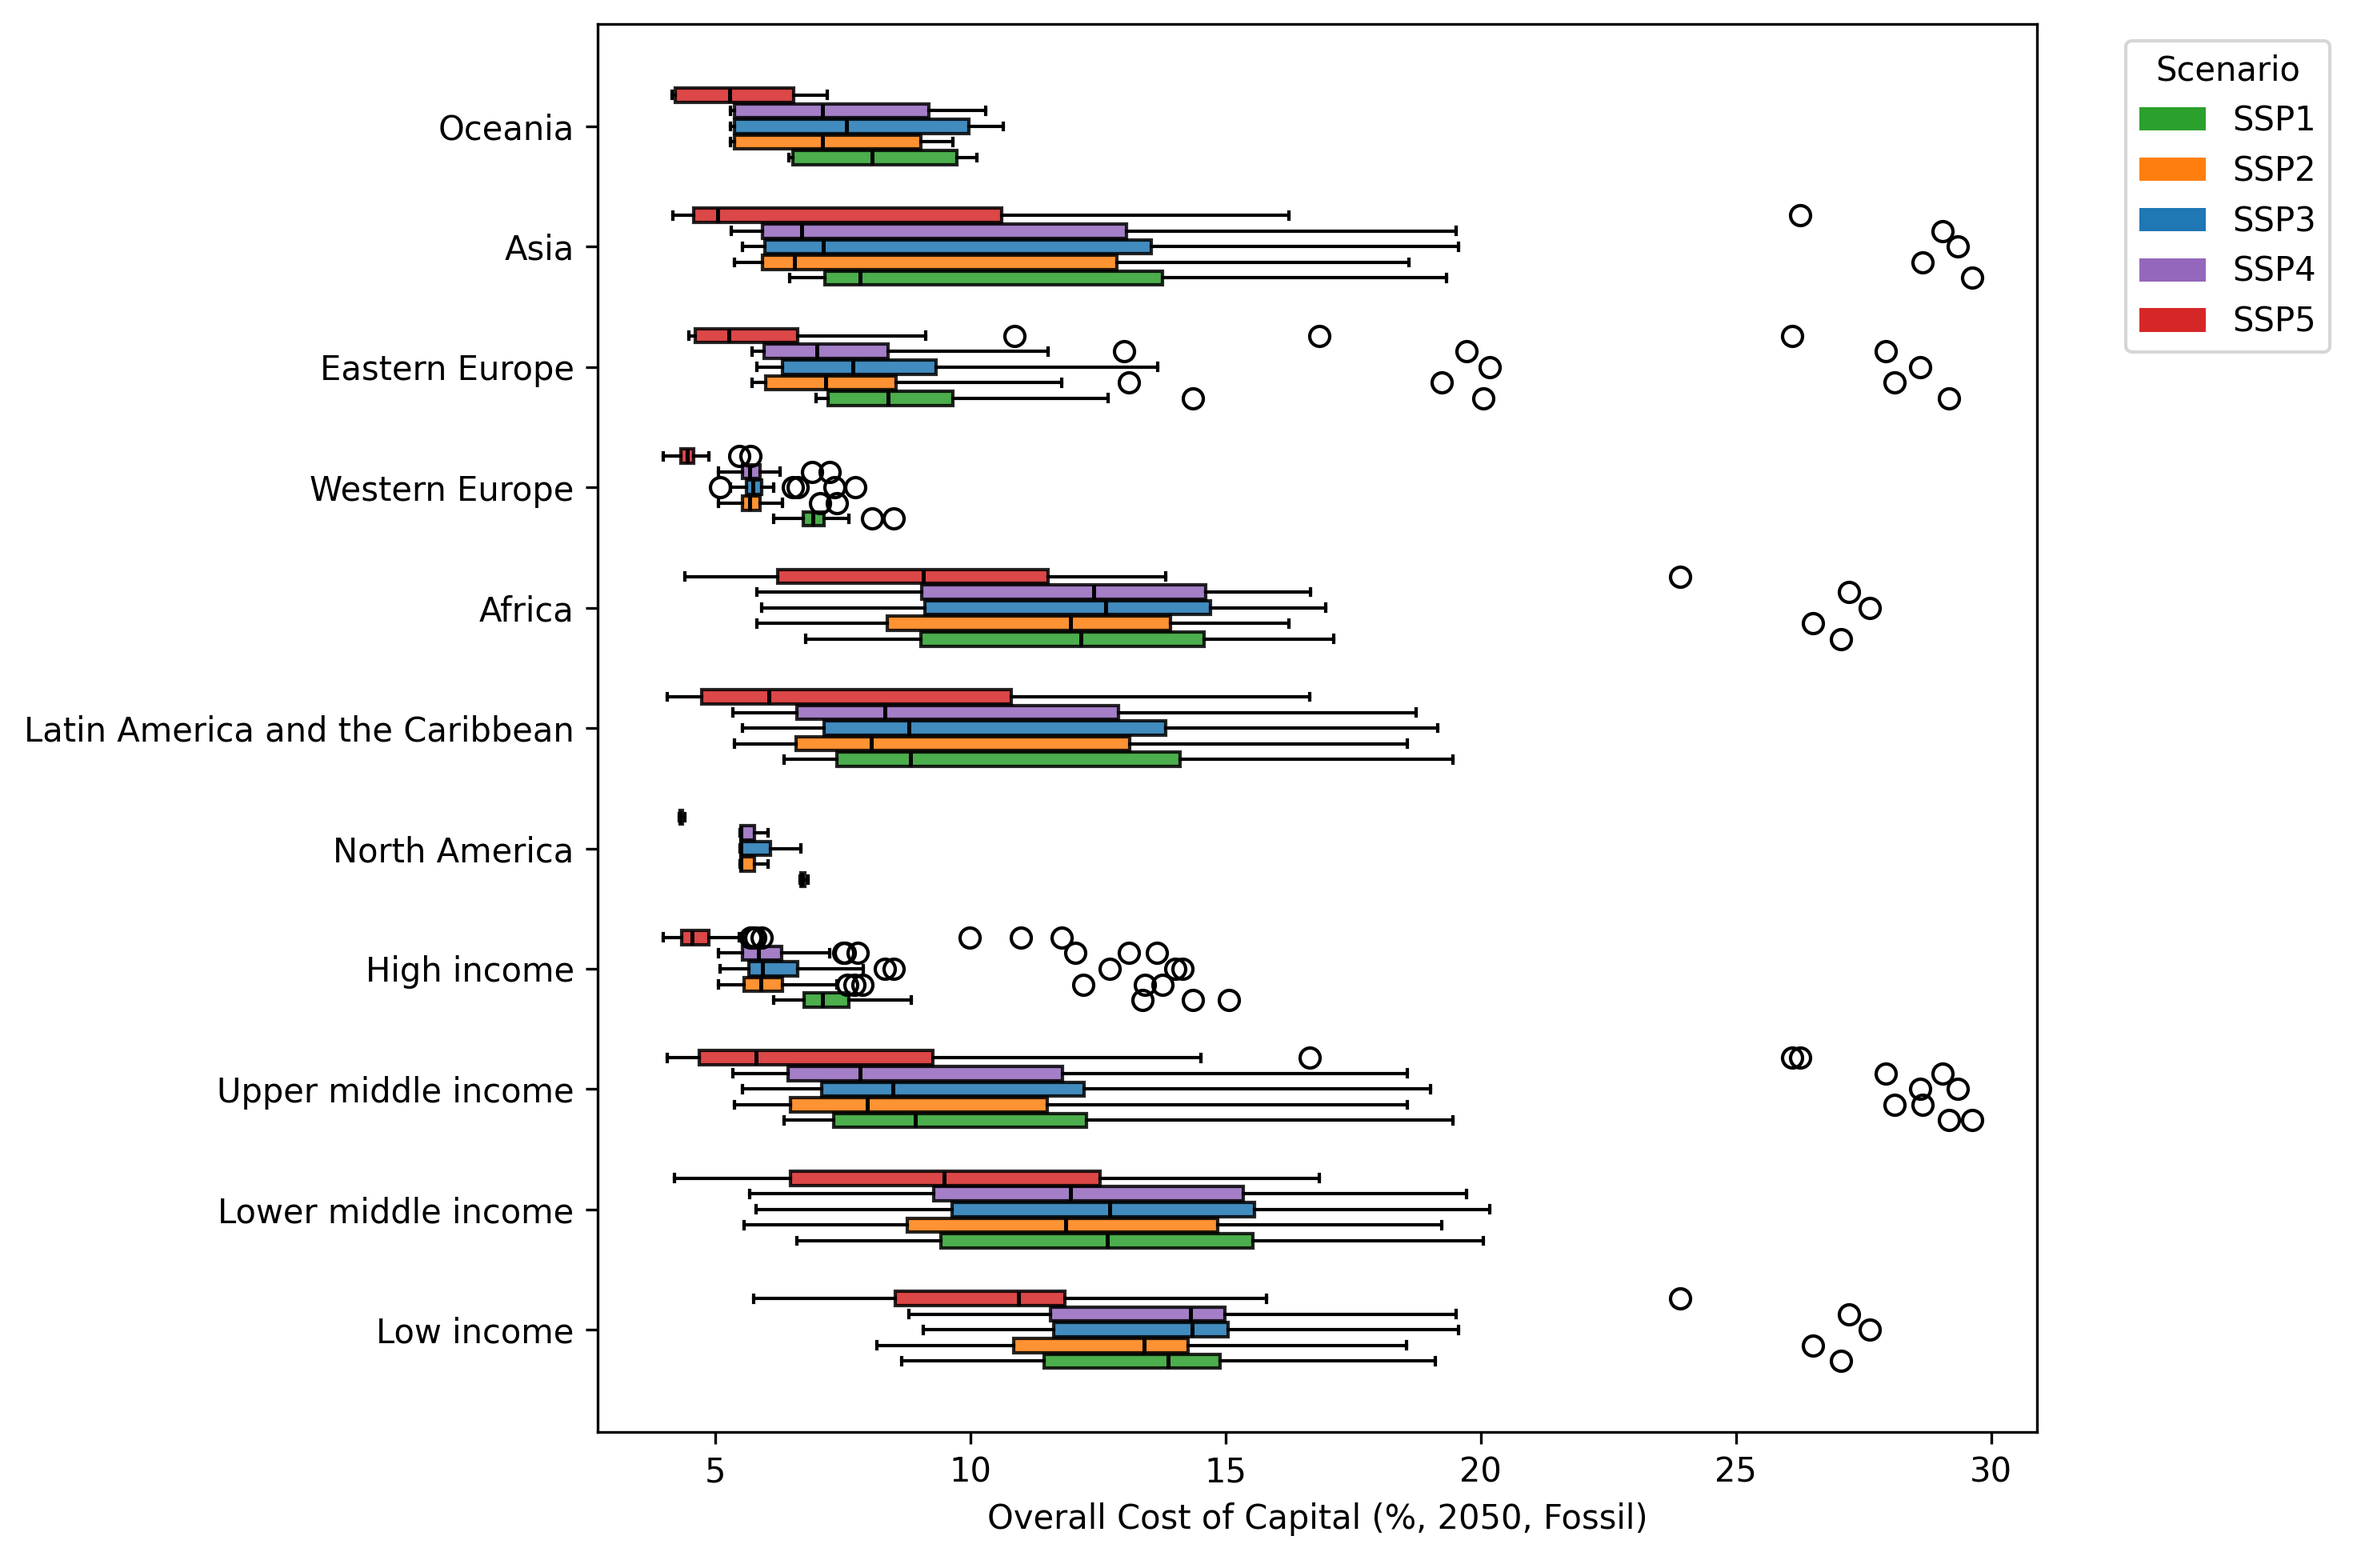
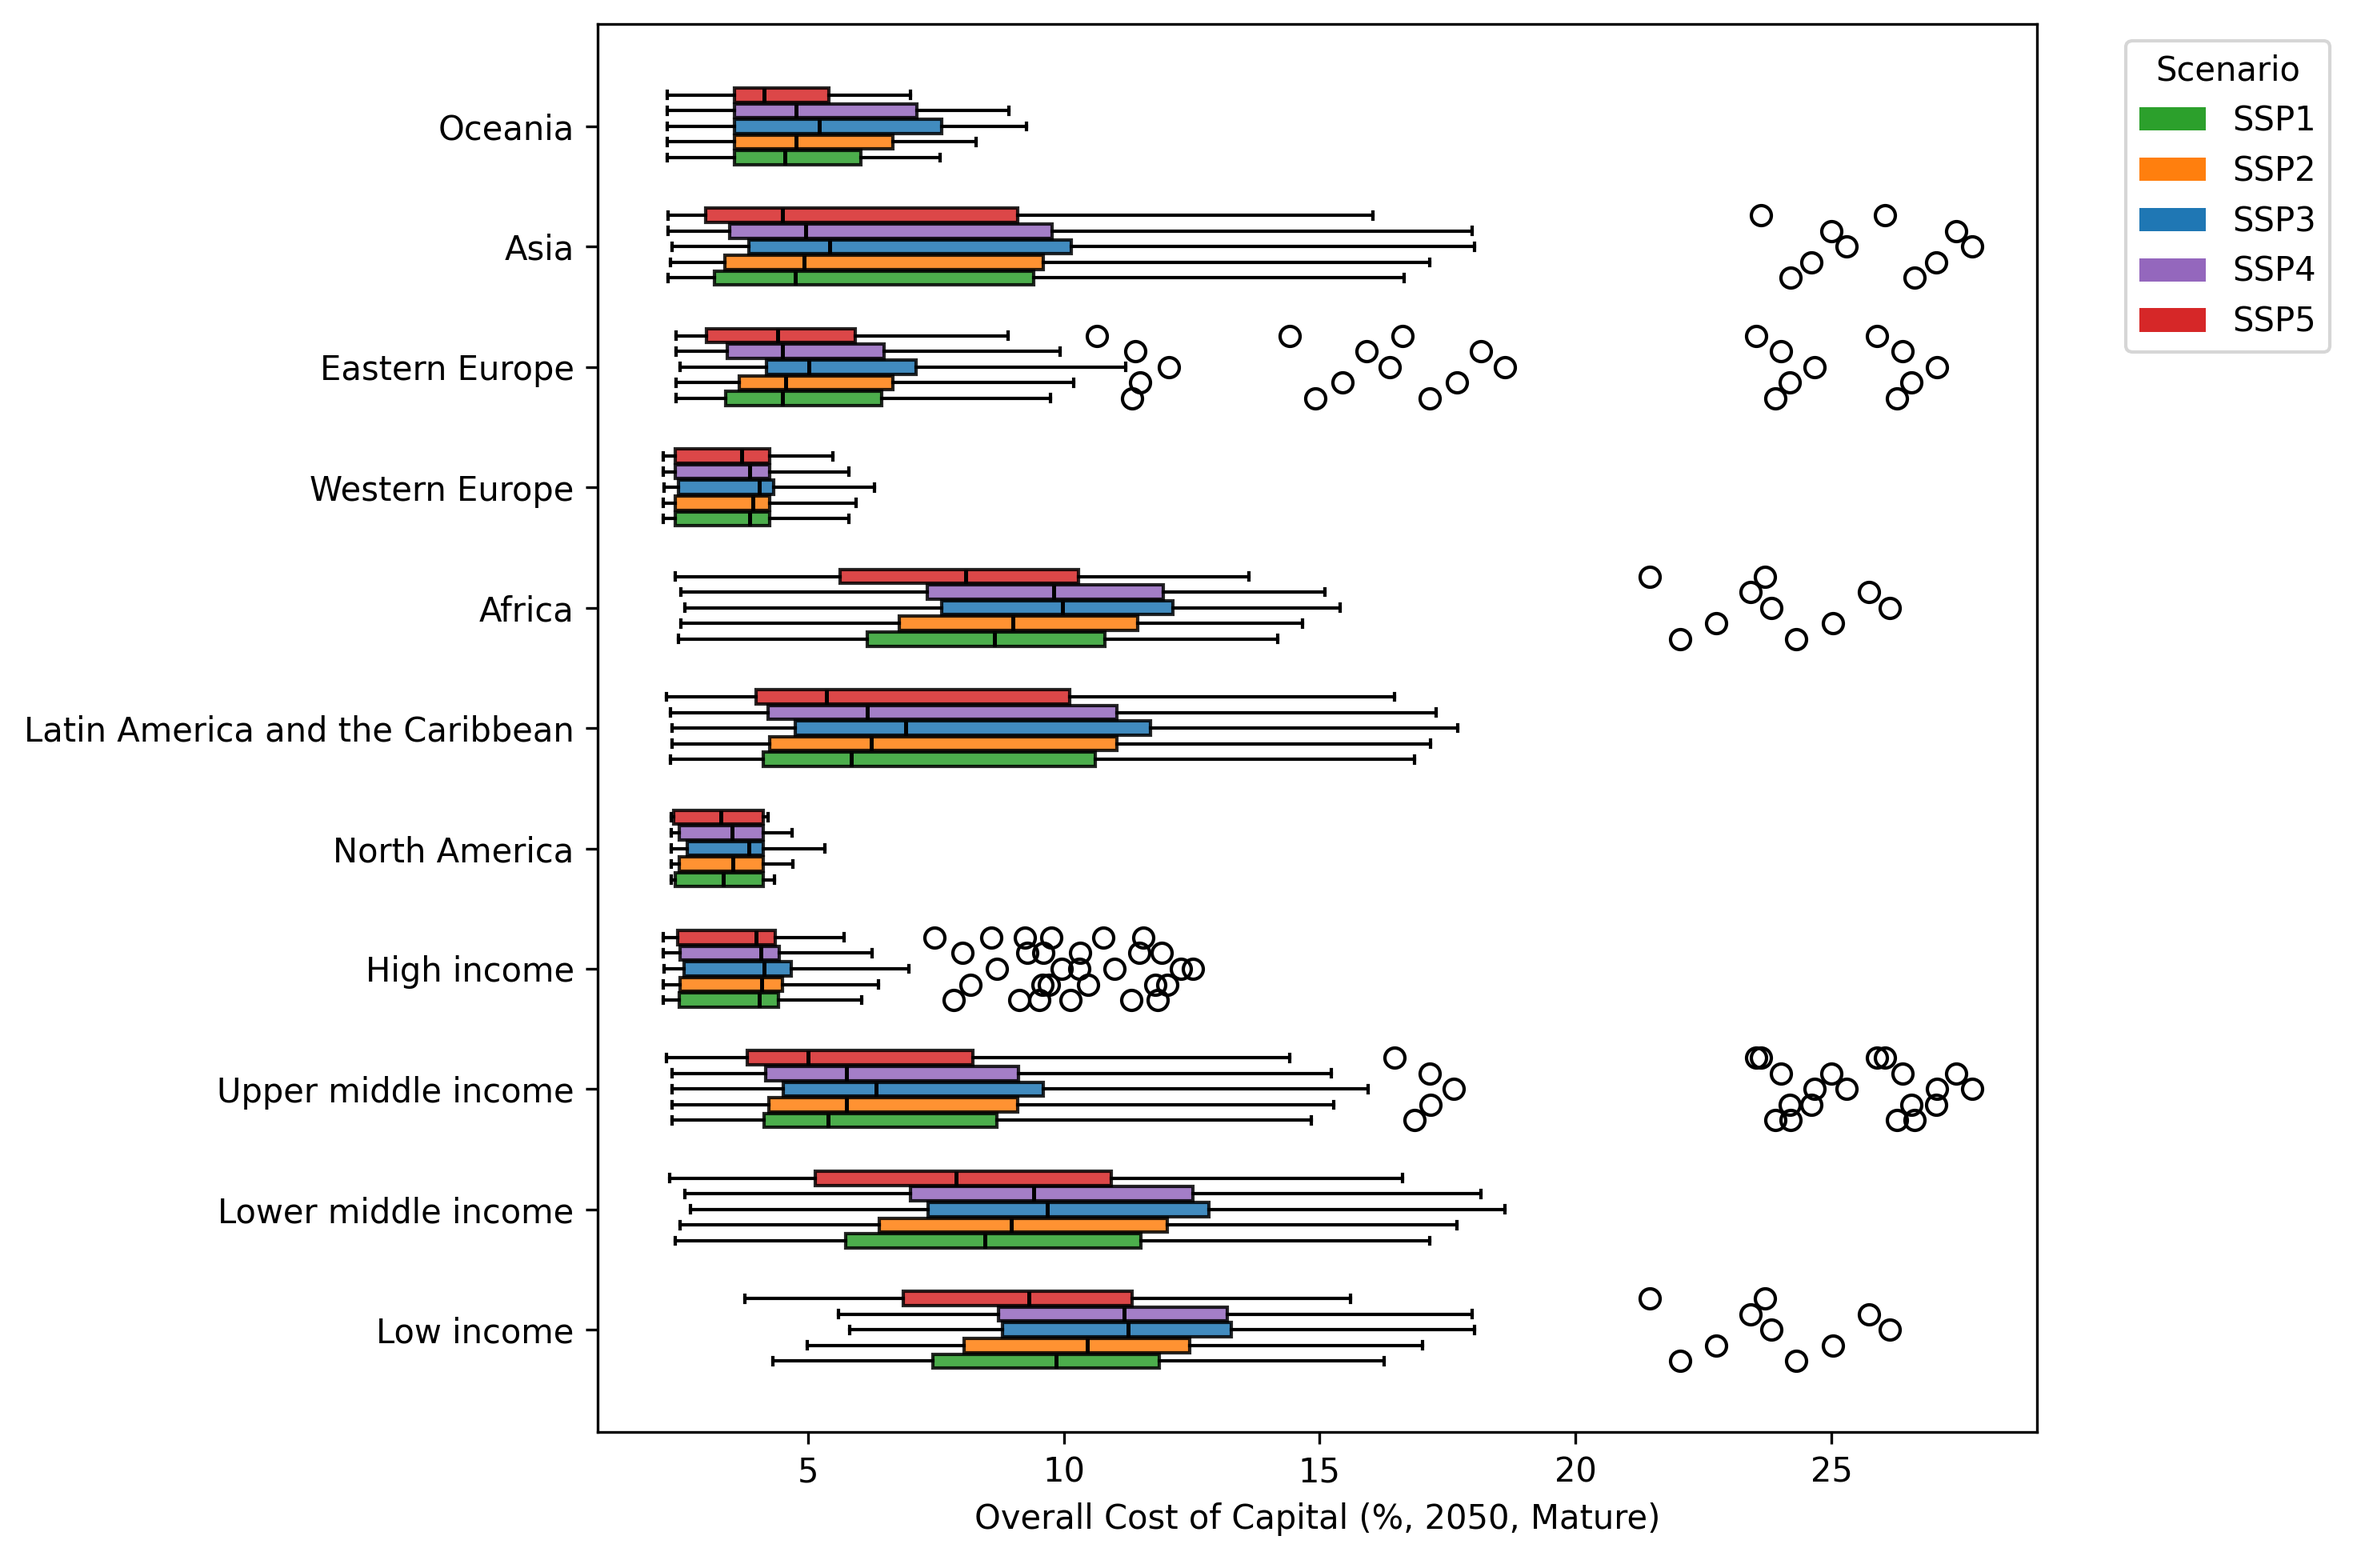
include policy coherence and tech maturity

diff --git a/wacc_calculator.py b/wacc_calculator.py
@@ -32,6 +32,15 @@ class WaccCalculator:
         self.country_risk_gdp = self.evaluate_crp_gdp_v2()
         self.cds_gdp = self.evaluate_cds_gdp_v2()
 
+        # Set technology maturity premiums
+        self.technology_maturity = {
+            "Mature": 0,
+            "Commercial": 1.2,
+            "Pre-Commercial": 2.4, 
+            "Emerging": 3.6, 
+            "FOAK": 4.8
+        }
+
 
     def convert_gdp_terms(self):
 
@@ -256,7 +265,10 @@ class WaccCalculator:
         # 4. Calculate technology category premium
         calculated_data = self.evaluate_tech_risk(data=calculated_data, sensitivity=sensitivity)
 
-        # 5. Sum all to give the total
+        # 5. Calculate policy coherence premium
+        calculated_data = self.evaluate_policy_coherence(data=calculated_data, sensitivity=sensitivity)
+
+        # 6. Sum all to give the total
         calculated_data = self.evaluate_total_costs(data=calculated_data, sensitivity=sensitivity)
 
         # 6. Merge additional data and calculate medians
@@ -325,37 +337,44 @@ class WaccCalculator:
 
     def evaluate_tech_risk(self, data, sensitivity=None):
 
-        # Duplicate dataframe and add clean vs fossil category
-        original_data = data
-        duplicated_data = data.copy()
+        # List to collect per-technology dataframes
+        df_list = []
 
-        # Add technology category and concatenate
-        original_data["Technology"] = "Clean"
-        duplicated_data["Technology"] = "Fossil"
-        new_data = pd.concat([original_data, duplicated_data], ignore_index=True)
+        for tech, premium in self.technology_maturity.items():
+            # Duplicate the original data for this technology
+            tech_df = data.copy()
 
-        # For clean category, apply SSP-specific relationships
-        medium_ssp = ["SSP2", "SSP3", "SSP4"]
-        new_data.loc[(new_data["Scenario"] == "SSP1")*(new_data["Technology"] == "Clean"), 
-                     "Technology Risk Premium"] = self.category_margin * ( 1 - (new_data["Year"].astype(int) - 2025)/ (2050 - 2025))
-        new_data.loc[(new_data["Scenario"].isin(medium_ssp))*(new_data["Technology"] == "Clean"), 
-                     "Technology Risk Premium"] = self.category_margin * ( 1 - (new_data["Year"].astype(int) - 2025)/ 2 / (2050 - 2025))
-        new_data.loc[(new_data["Scenario"] == "SSP5")*(new_data["Technology"] == "Clean"), 
-                     "Technology Risk Premium"] = self.category_margin 
-        
+            # Set the Technology column
+            tech_df["Technology"] = tech
 
-        # For fossil category, apply SSP-specific relationships
-        new_data.loc[(new_data["Scenario"] == "SSP1")*(new_data["Technology"] == "Fossil"), 
-                     "Technology Risk Premium"] = self.category_margin * (new_data["Year"].astype(int) - 2025)/ (2050 - 2025)
-        new_data.loc[(new_data["Scenario"].isin(medium_ssp))*(new_data["Technology"] == "Fossil"), 
-                     "Technology Risk Premium"] = self.category_margin * (new_data["Year"].astype(int) - 2025)/ 2 / (2050 - 2025)
-        new_data.loc[(new_data["Scenario"] == "SSP5")*(new_data["Technology"] == "Fossil"), 
-                     "Technology Risk Premium"] = 0
-        
-        # Apply a limit
-        new_data["Technology Risk Premium"] = new_data["Technology Risk Premium"].clip(upper=3.0, lower=0)
+            # Set the Technology Risk Premium for all rows/years
+            tech_df["Technology Risk Premium"] = premium
+
+            df_list.append(tech_df)
+
+        # Concatenate all technology-specific dataframes
+        new_data = pd.concat(df_list, ignore_index=True)
 
         return new_data
+    
+    def evaluate_policy_coherence(self, data, sensitivity=None):
+
+        # Copy data
+        policy_incoherence = data.copy()
+
+        # Set policy incoherence premium
+        policy_incoherence["Policy Coherence Premium"] = 2
+        data["Policy Coherence Premium"] = 0
+
+        # Set tracker
+        policy_incoherence["Policy Coherence"] = "Weak"
+        data["Policy Coherence"] = "Strong"
+
+        # Append data
+        merged_data = pd.concat([data, policy_incoherence], ignore_index=True)
+
+        return merged_data
+
 
 
     def evaluate_total_costs(self, data, sensitivity=None):
@@ -373,10 +392,10 @@ class WaccCalculator:
                                                                                data["Country Risk Premium"].min())
 
         # Calculate the cost of debt
-        data["Cost of Debt"] = data["Risk Free Rate"] + data["Country Default Spread"] + data["Lenders Margin"] + data["Technology Risk Premium"]
+        data["Cost of Debt"] = data["Risk Free Rate"] + data["Country Default Spread"] + data["Lenders Margin"] + data["Technology Risk Premium"] + data["Policy Coherence Premium"]
 
         # Calculate the cost of equity
-        data["Cost of Equity"] = data["Risk Free Rate"] + data["Country Risk Premium"] + data["Equity Risk Premium"] + data["Technology Risk Premium"]
+        data["Cost of Equity"] = data["Risk Free Rate"] + data["Country Risk Premium"] + data["Equity Risk Premium"] + data["Technology Risk Premium"] + 1.5 * data["Policy Coherence Premium"]
 
         # Calculate the overall cost of capital
         data["Overall Cost of Capital"] = data["Debt Share"] / 100 * data["Cost of Debt"] * (1 - data["Tax Rate"]/100) + data["Cost of Equity"] * (1 - data["Debt Share"]/100)

diff --git a/streamlit_app.py b/streamlit_app.py
@@ -586,8 +586,11 @@ missing_names = [name_value_dict.get(code, code) for code in missing_values]
 
 
 technology = st.selectbox(
-            "Technology", scenario["Technology"].unique(), 
+            "Technology Maturity", scenario["Technology"].unique(), 
             index=0, placeholder="Select Technology...", key="Technology")
+policy = st.selectbox(
+            "Policy Coherence", scenario["Policy Coherence"].unique(), 
+            index=0, placeholder="Select Policy Coherence...", key="Policy Coherence")
 sensitivity = st.selectbox(
             "Sensitivity Scenario", ["Low", "Central", "High"], 
             index=0, placeholder="Select Low/Central/High Estimates...", key="Sensitivity")
@@ -607,13 +610,13 @@ with tab1:
             "Displayed Country", scenario["Country Name"].unique(), 
             index=0, placeholder="Select Country...", key="Country")
     # Select data based on input
-    selected_data = selected_scenario.loc[(selected_scenario["Scenario"] == SSP) & (selected_scenario["Country Name"] == country)  & (selected_scenario["Technology"] == technology)]
-    plot_comparison_chart_equity(selected_data[["Year", "Risk Free Rate", "Country Risk Premium", "Equity Risk Premium", "Technology Risk Premium"]])
+    selected_data = selected_scenario.loc[(selected_scenario["Scenario"] == SSP) & (selected_scenario["Country Name"] == country)  & (selected_scenario["Technology"] == technology) & (selected_scenario["Policy Coherence"] == policy)]
+    plot_comparison_chart_equity(selected_data[["Year", "Risk Free Rate", "Country Risk Premium", "Equity Risk Premium", "Technology Risk Premium", "Policy Coherence Premium"]])
 with tab11:
     st.write("Select inputs under CoD tab, but the same selections will apply to both charts.")
     # Select data based on input
-    selected_data = selected_scenario.loc[(selected_scenario["Scenario"] == SSP) & (selected_scenario["Country Name"] == country)  & (selected_scenario["Technology"] == technology)]
-    plot_comparison_chart_debt(selected_data[["Year", "Risk Free Rate", "Country Risk Premium", "Lenders Margin", "Technology Risk Premium"]])
+    selected_data = selected_scenario.loc[(selected_scenario["Scenario"] == SSP) & (selected_scenario["Country Name"] == country)  & (selected_scenario["Technology"] == technology) & (selected_scenario["Policy Coherence"] == policy)]
+    plot_comparison_chart_debt(selected_data[["Year", "Risk Free Rate", "Country Risk Premium", "Lenders Margin", "Technology Risk Premium", "Policy Coherence Premium"]])
 
 with tab2:
     # Regional boxplots (easy to change year)
@@ -625,13 +628,13 @@ with tab2:
 with tab3:
     # Comparison across EMDEs and Advanced Economies for both technologies
     scenario_comparison = selected_scenario.loc[selected_scenario["Country Name"].isin(["EMDEs", "Advanced Economies"])]
-    plot_ssp_comparison(scenario_comparison[(scenario_comparison["Technology"] == technology)*(scenario_comparison["Country Name"] == "EMDEs")])
+    plot_ssp_comparison(scenario_comparison[(scenario_comparison["Policy Coherence"] == policy)*(scenario_comparison["Technology"] == technology)*(scenario_comparison["Country Name"] == "EMDEs")])
     # Pass full scenario_comparison (both Clean and Fossil) to create side-by-side subplots
     #plot_ssp_comparison_matplotlib(scenario_comparison)
     #plot_ssp_comparison_range_matplotlib(scenario, low_scenario, high_scenario, technology='Clean')
 
 with tab4:
-    plot_ssp_comparison(scenario_comparison[(scenario_comparison["Technology"] == technology)*(scenario_comparison["Country Name"] == "Advanced Economies")])
+    plot_ssp_comparison(scenario_comparison[(scenario_comparison["Policy Coherence"] == policy)*(scenario_comparison["Technology"] == technology)*(scenario_comparison["Country Name"] == "Advanced Economies")])
 
 with tab5:
     year_choice_map = st.selectbox('Year (for  global heatmaps)', years, index=default_index, key='world_map_year')
